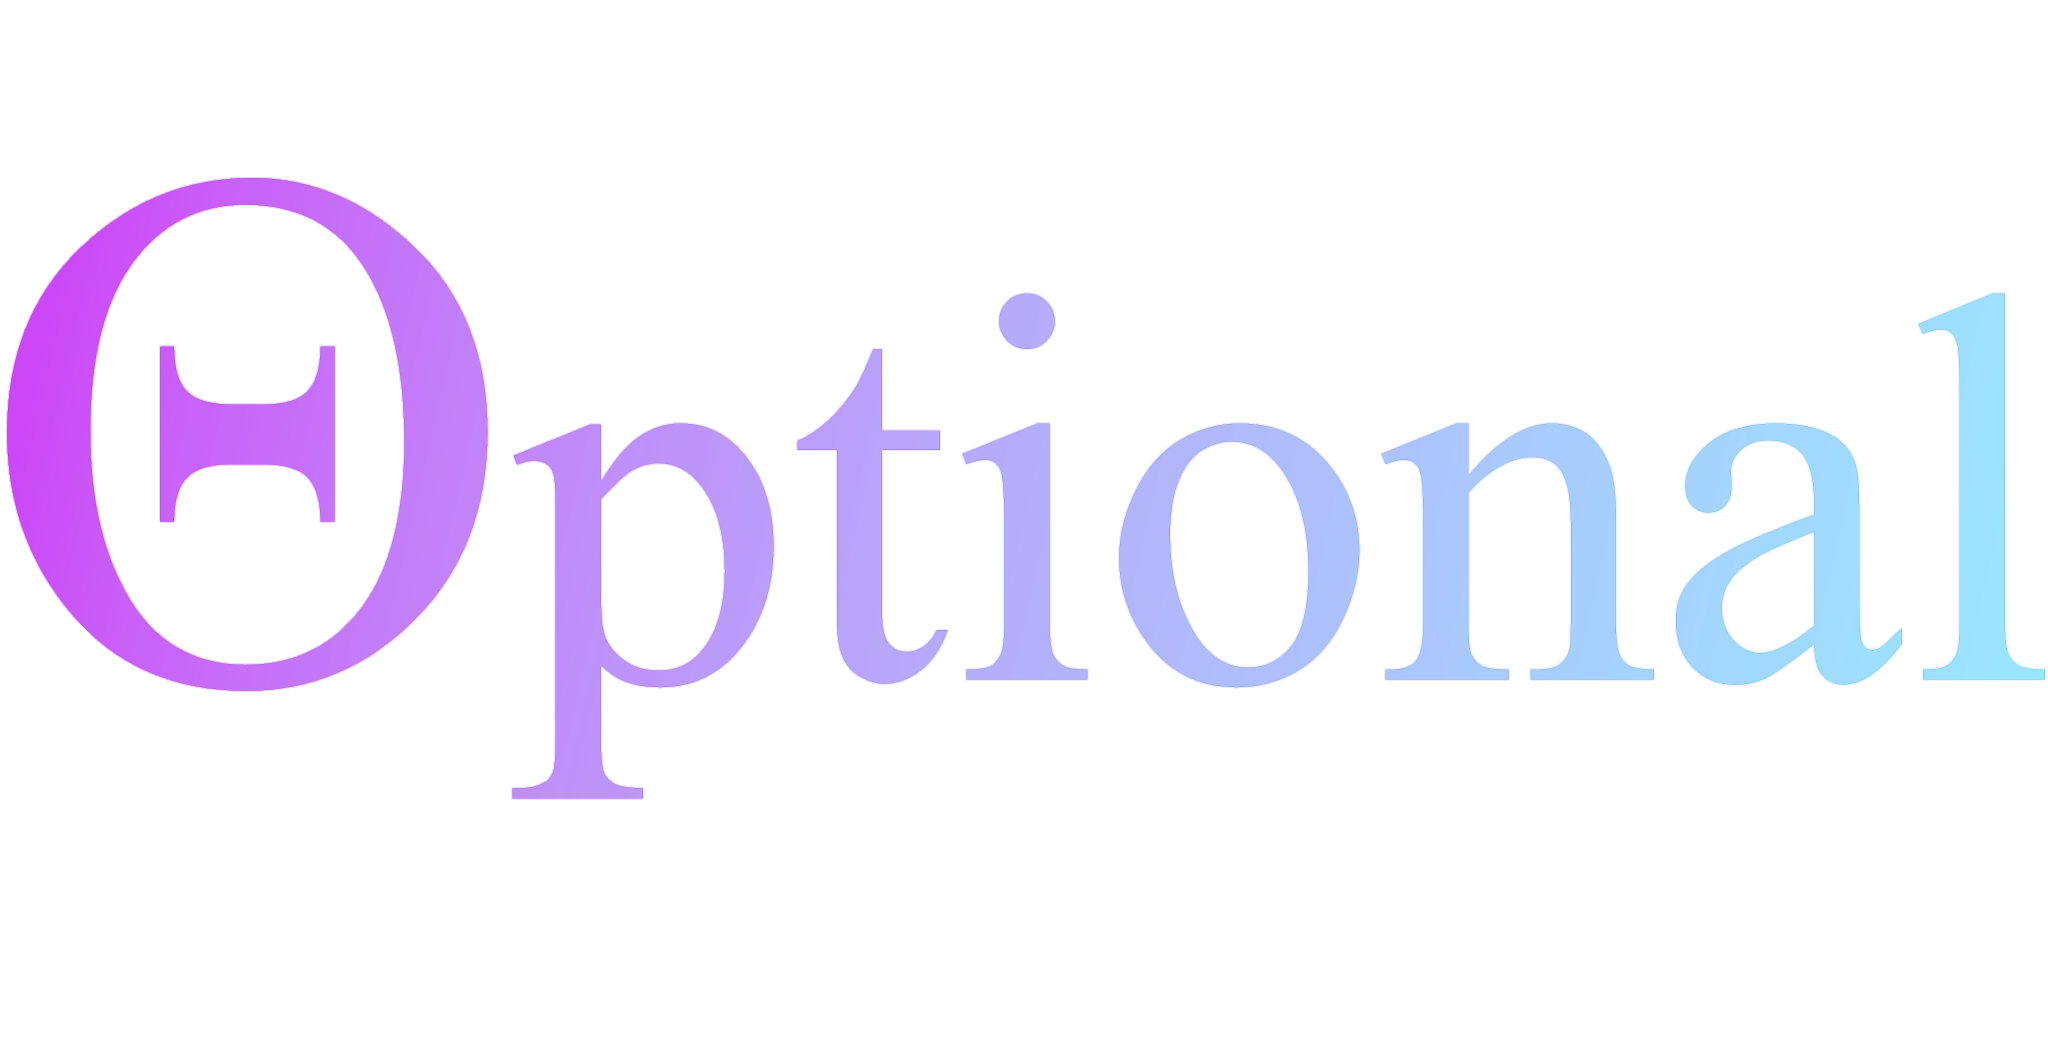
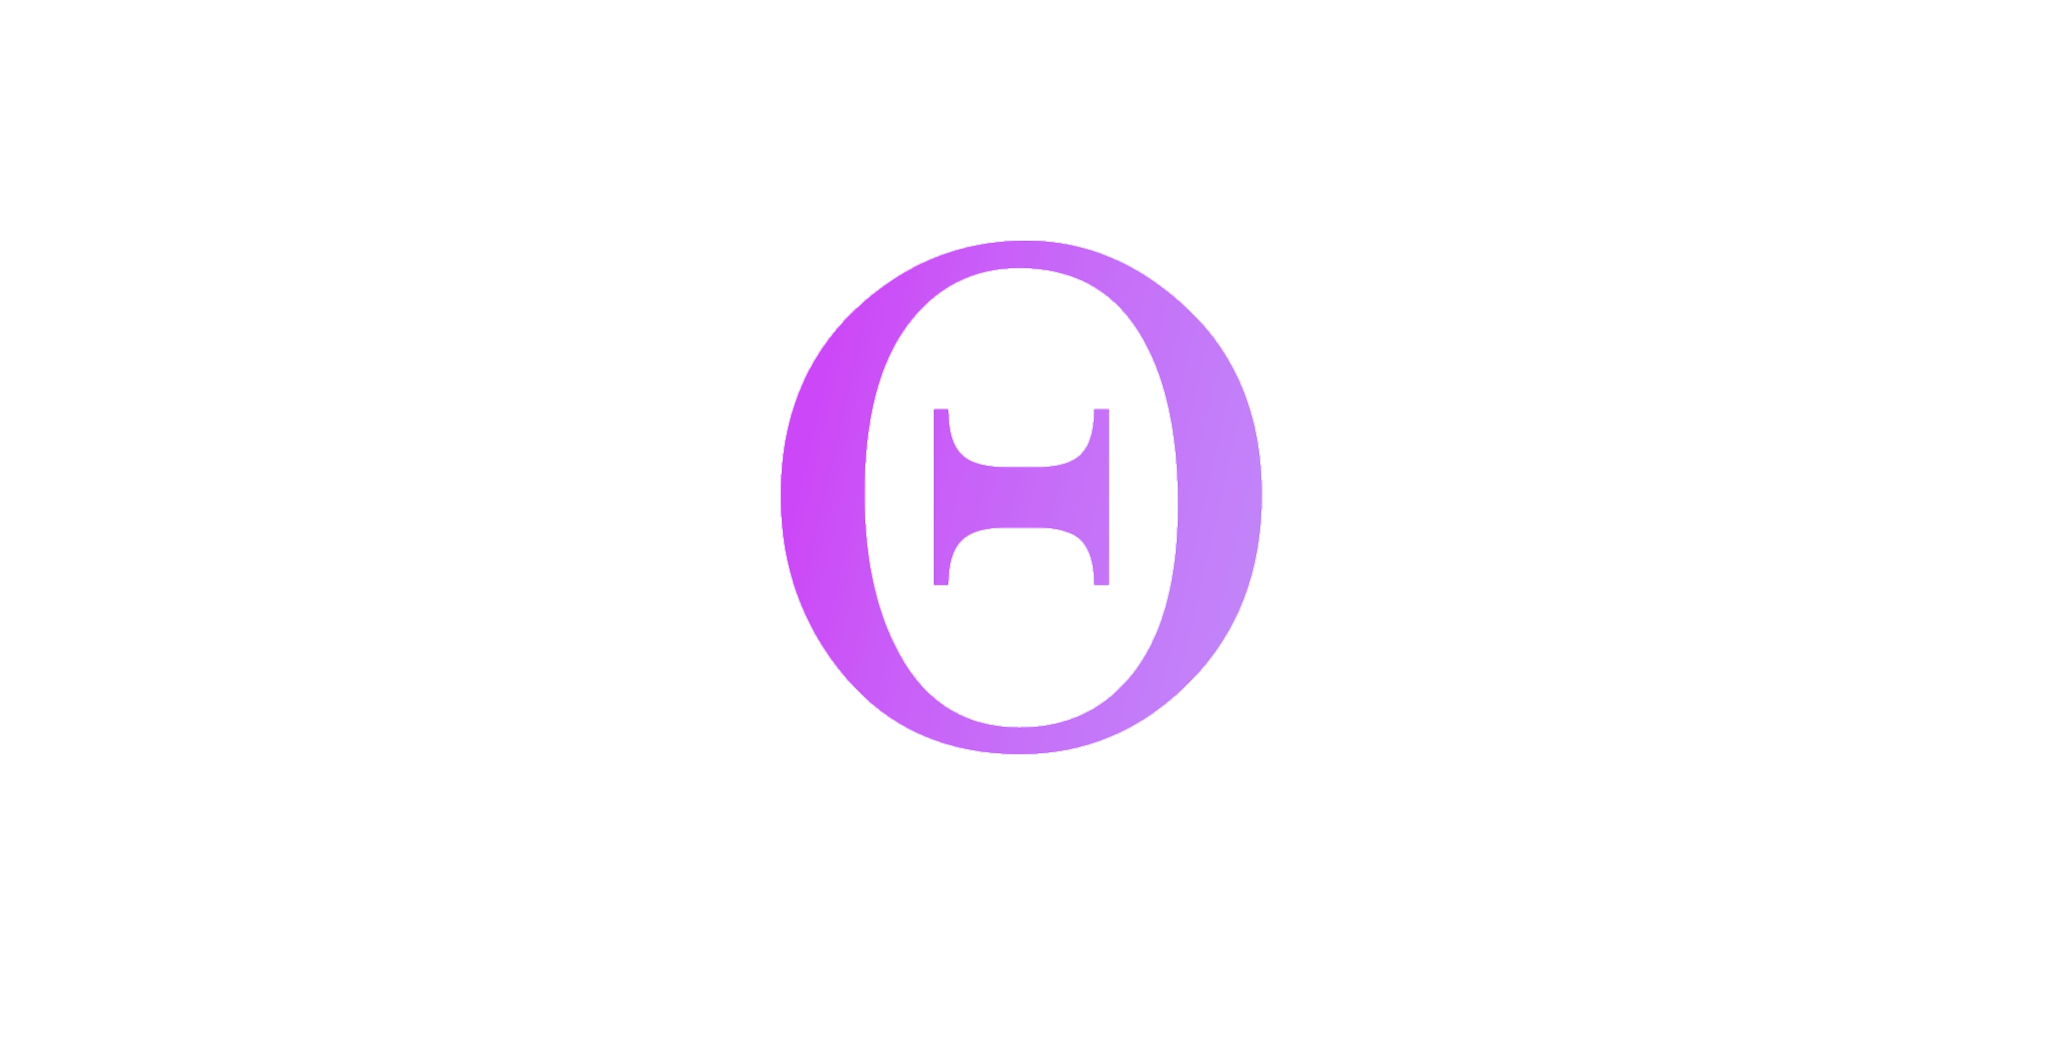
Updated image with theta

Changed region(s): [[0.0, 0.1527, 1.0, 0.7634]]

diff --git a/frontend/src/components/Footer.js b/frontend/src/components/Footer.js
@@ -97,8 +97,7 @@ export default function Footer() {
       </SocialContainer>
 
       <CopyRightText>
-        Copyright<span>&#169;</span>
-        Optional 2021
+        Frontend Built and Tailored by <a href="https://github.com/littlefish-tech">Yvonne</a> for Optional
       </CopyRightText>
     </FooterContainer>
   );
